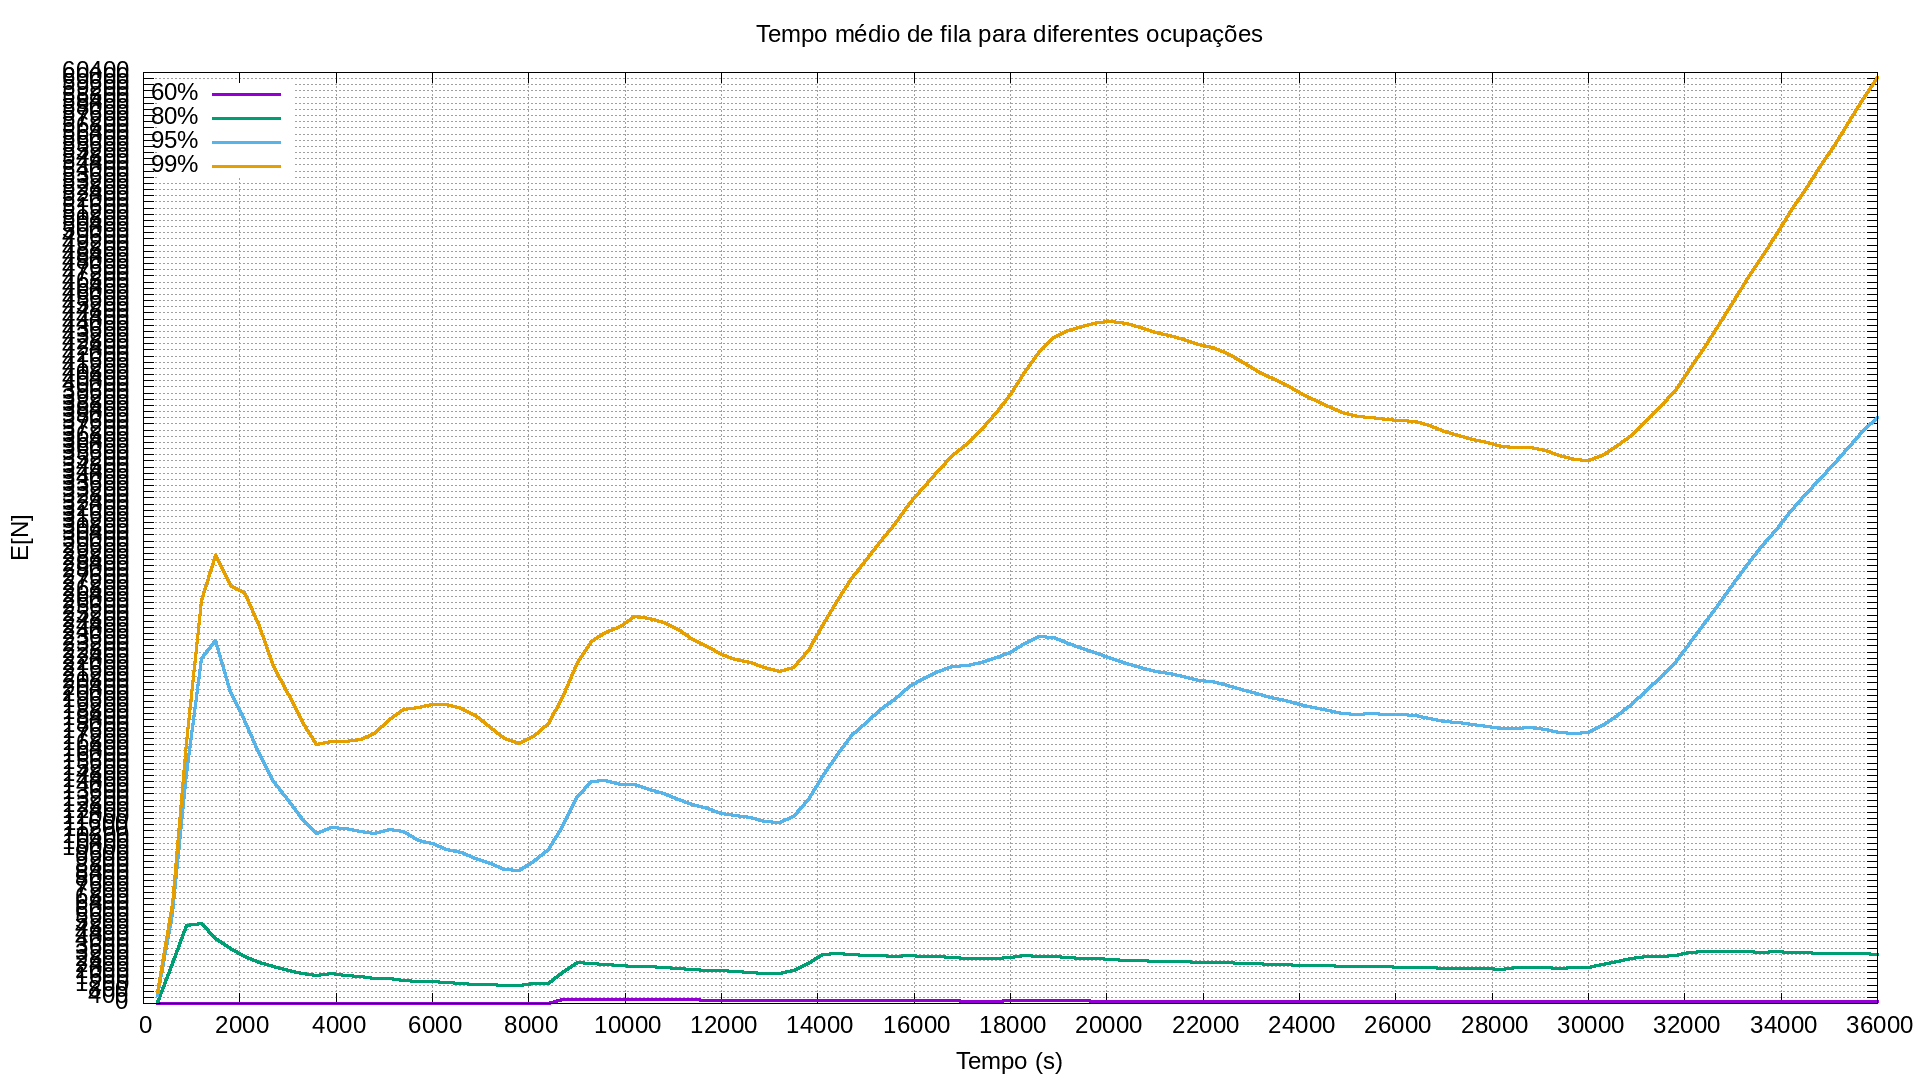
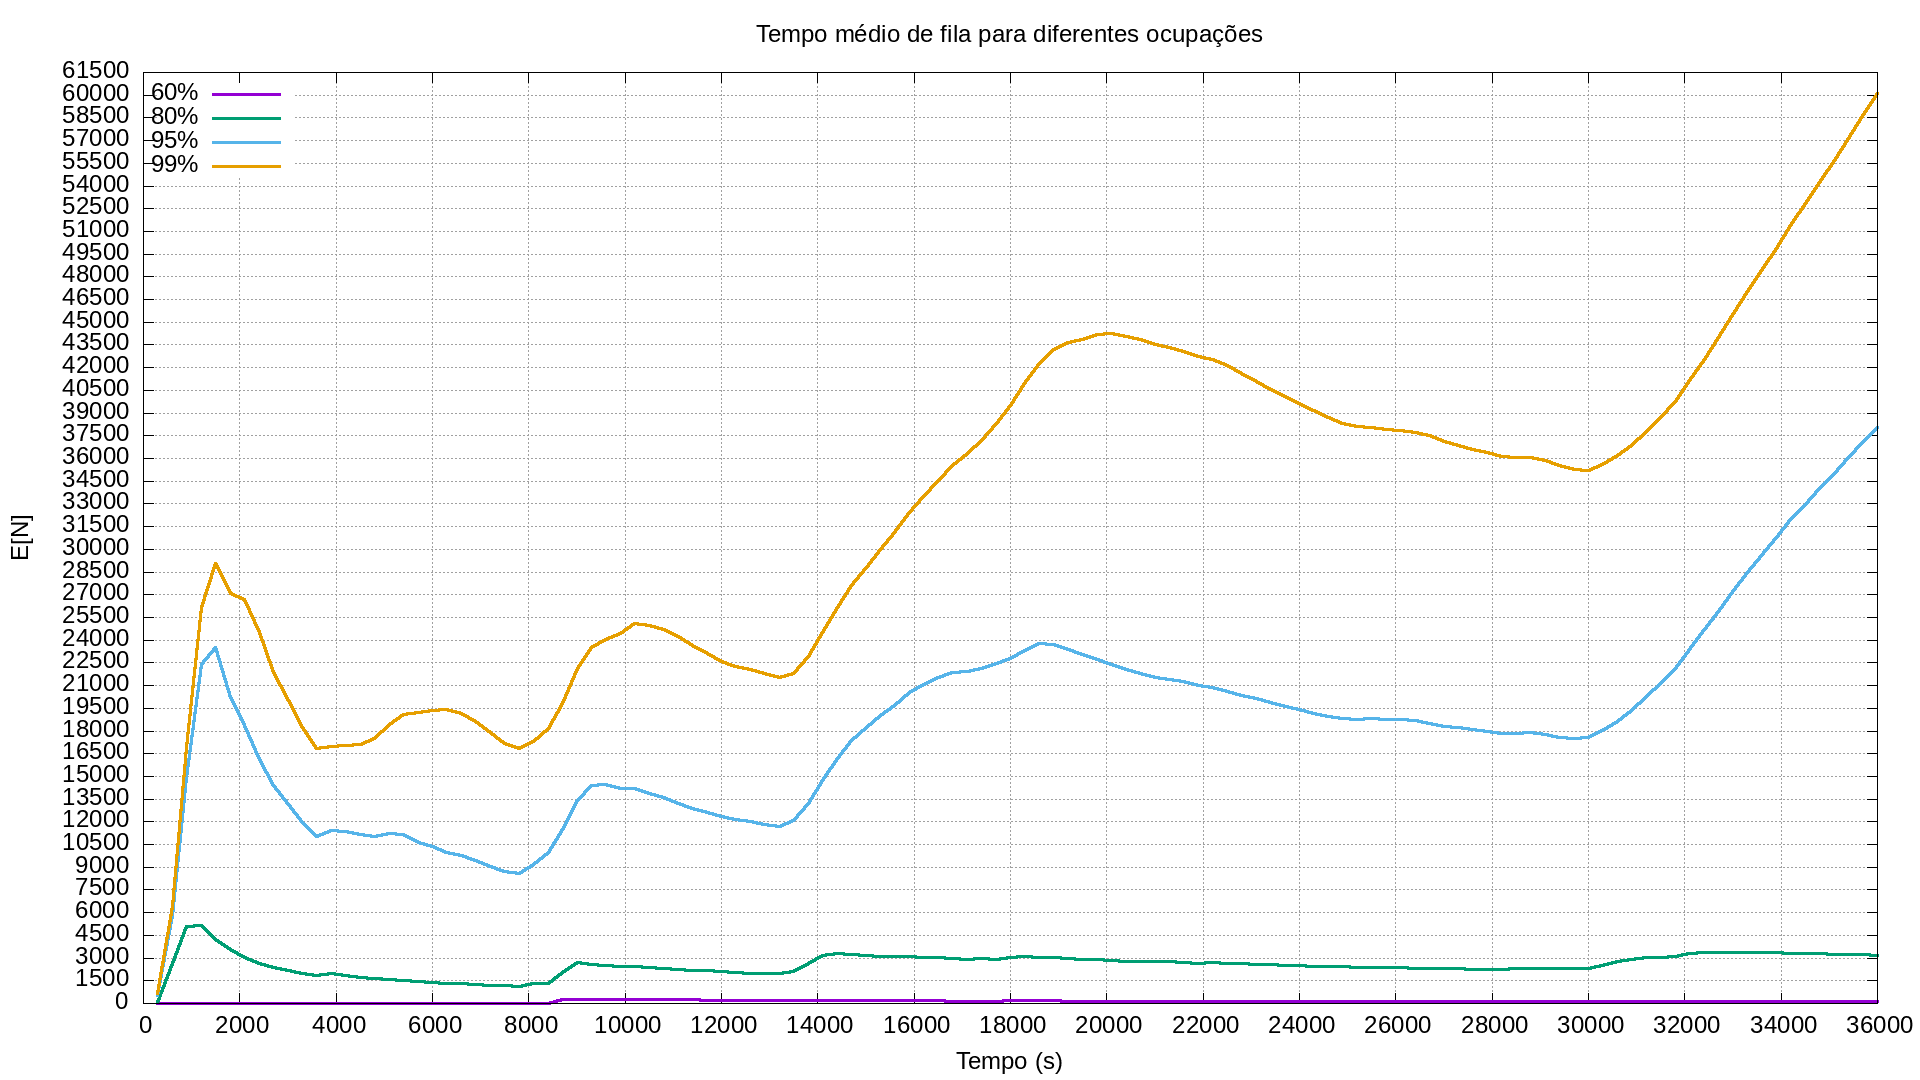
refactor: correção yticks dos gráficos

Changed region(s): [[0.0312, 0.0611, 0.9688, 0.9472], [0.9375, 0.0917, 0.9688, 0.1833]]

diff --git a/Simulador 2 - Parte 2/simulacao.c b/Simulador 2 - Parte 2/simulacao.c
@@ -591,8 +591,8 @@ void main()
         resolve(taxas[i], &graficos[i], &chamada);
     }
 
-    cria_grafico(graficos, "Tempo médio de fila para diferentes ocupações", "E[N]", "Tempo (s)", 2000, 400, "E[N]", "left top");
+    cria_grafico(graficos, "Tempo médio de fila para diferentes ocupações", "E[N]", "Tempo (s)", 2000, 1500, "E[N]", "left top");
     cria_grafico(graficos, "Tempo médio de espera para diferentes ocupações", "E[W]", "Tempo (s)", 2000, 4, "E[W]", "left top");
     cria_grafico(graficos, "Ocupações conforme o tempo", "Ocupacao", "Tempo (s)", 2000, 0.025, "Ocupacao", "right bot");
-    cria_grafico(graficos, "Erro de Little para diferentes ocupações", "Little", "Tempo (s)", 2000, 0.0000000199, "Little", "left top");
+    cria_grafico(graficos, "Erro de Little para diferentes ocupações", "Little", "Tempo (s)", 2000, 0.000000039999987018, "Little", "left top");
 }
